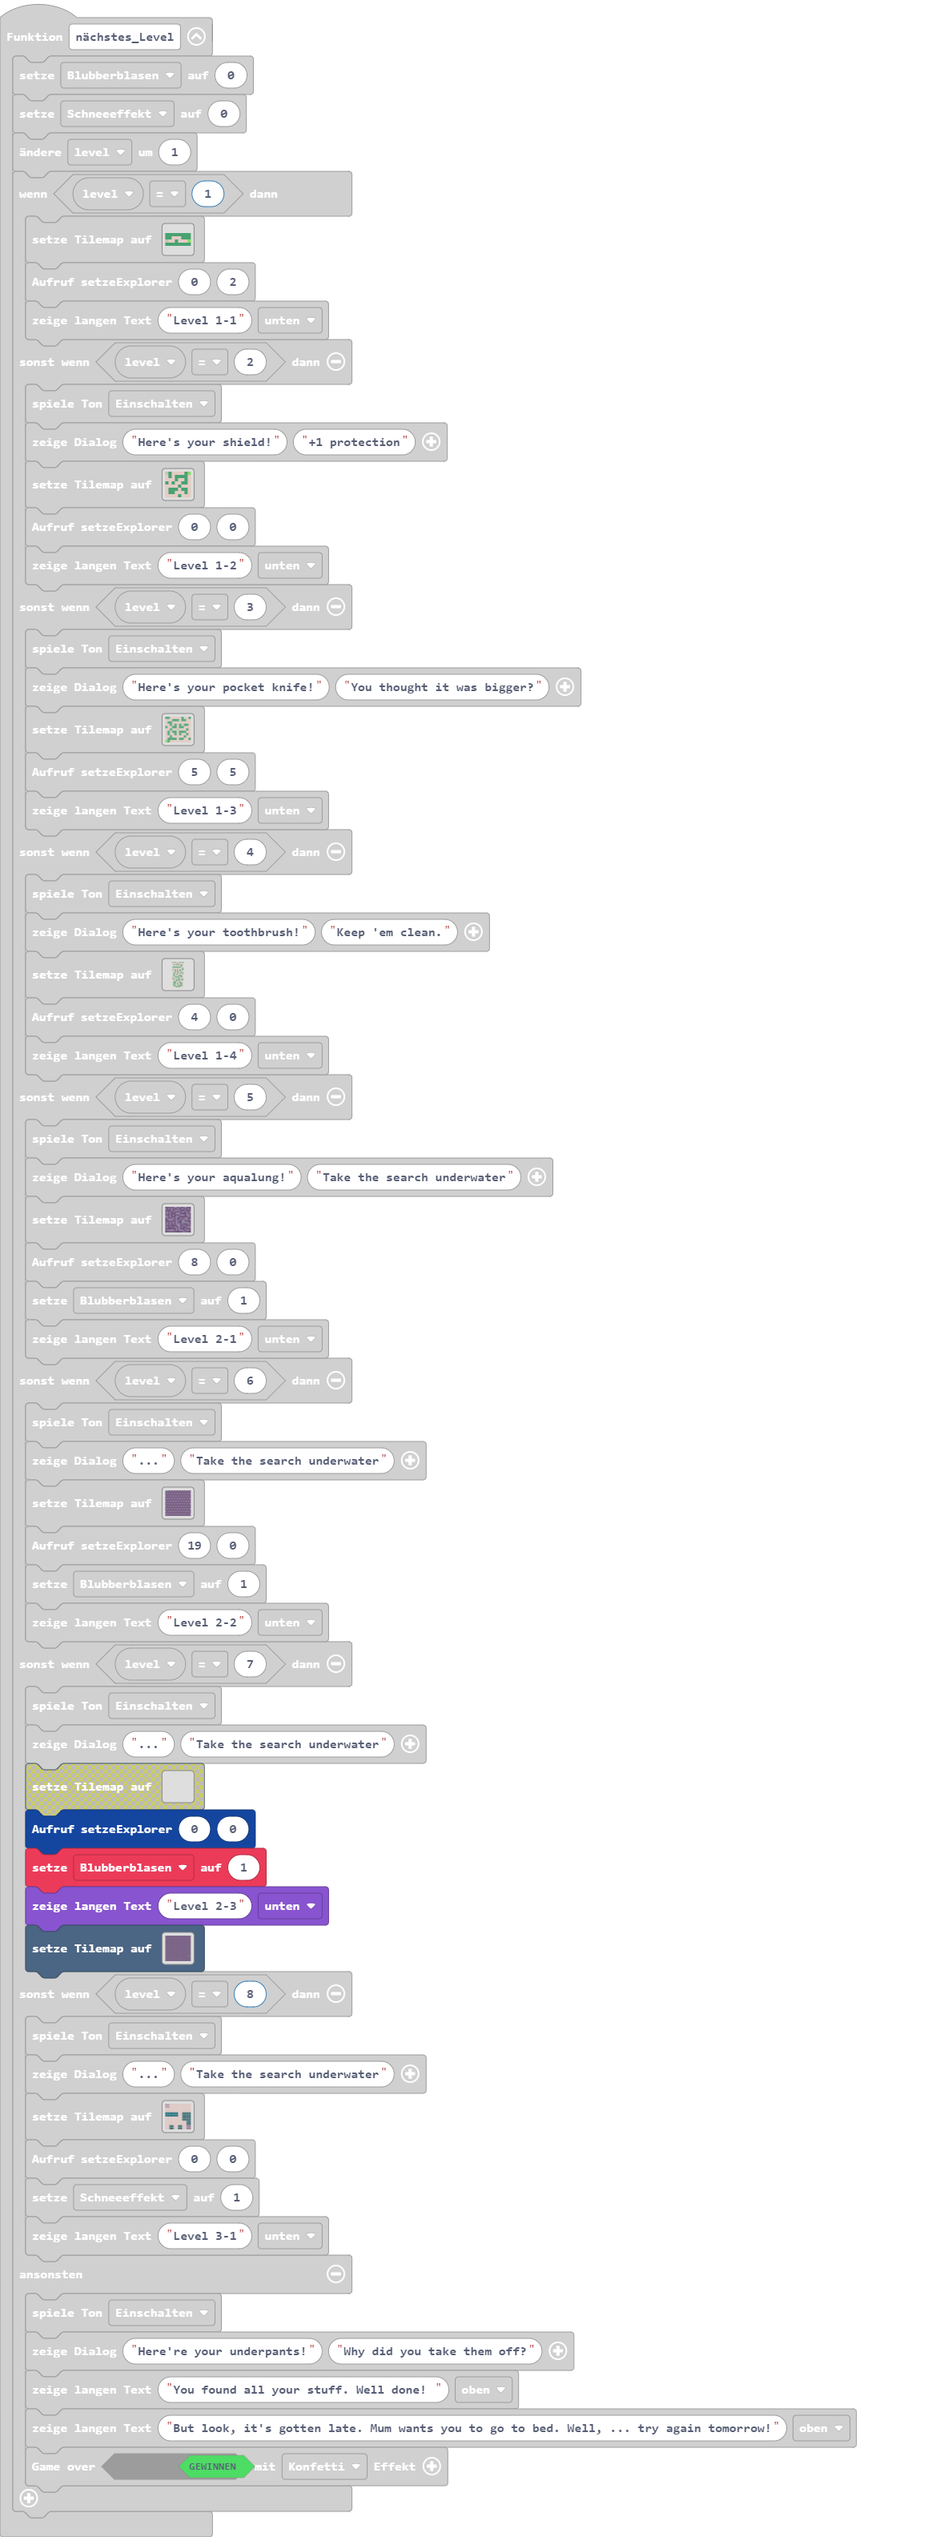
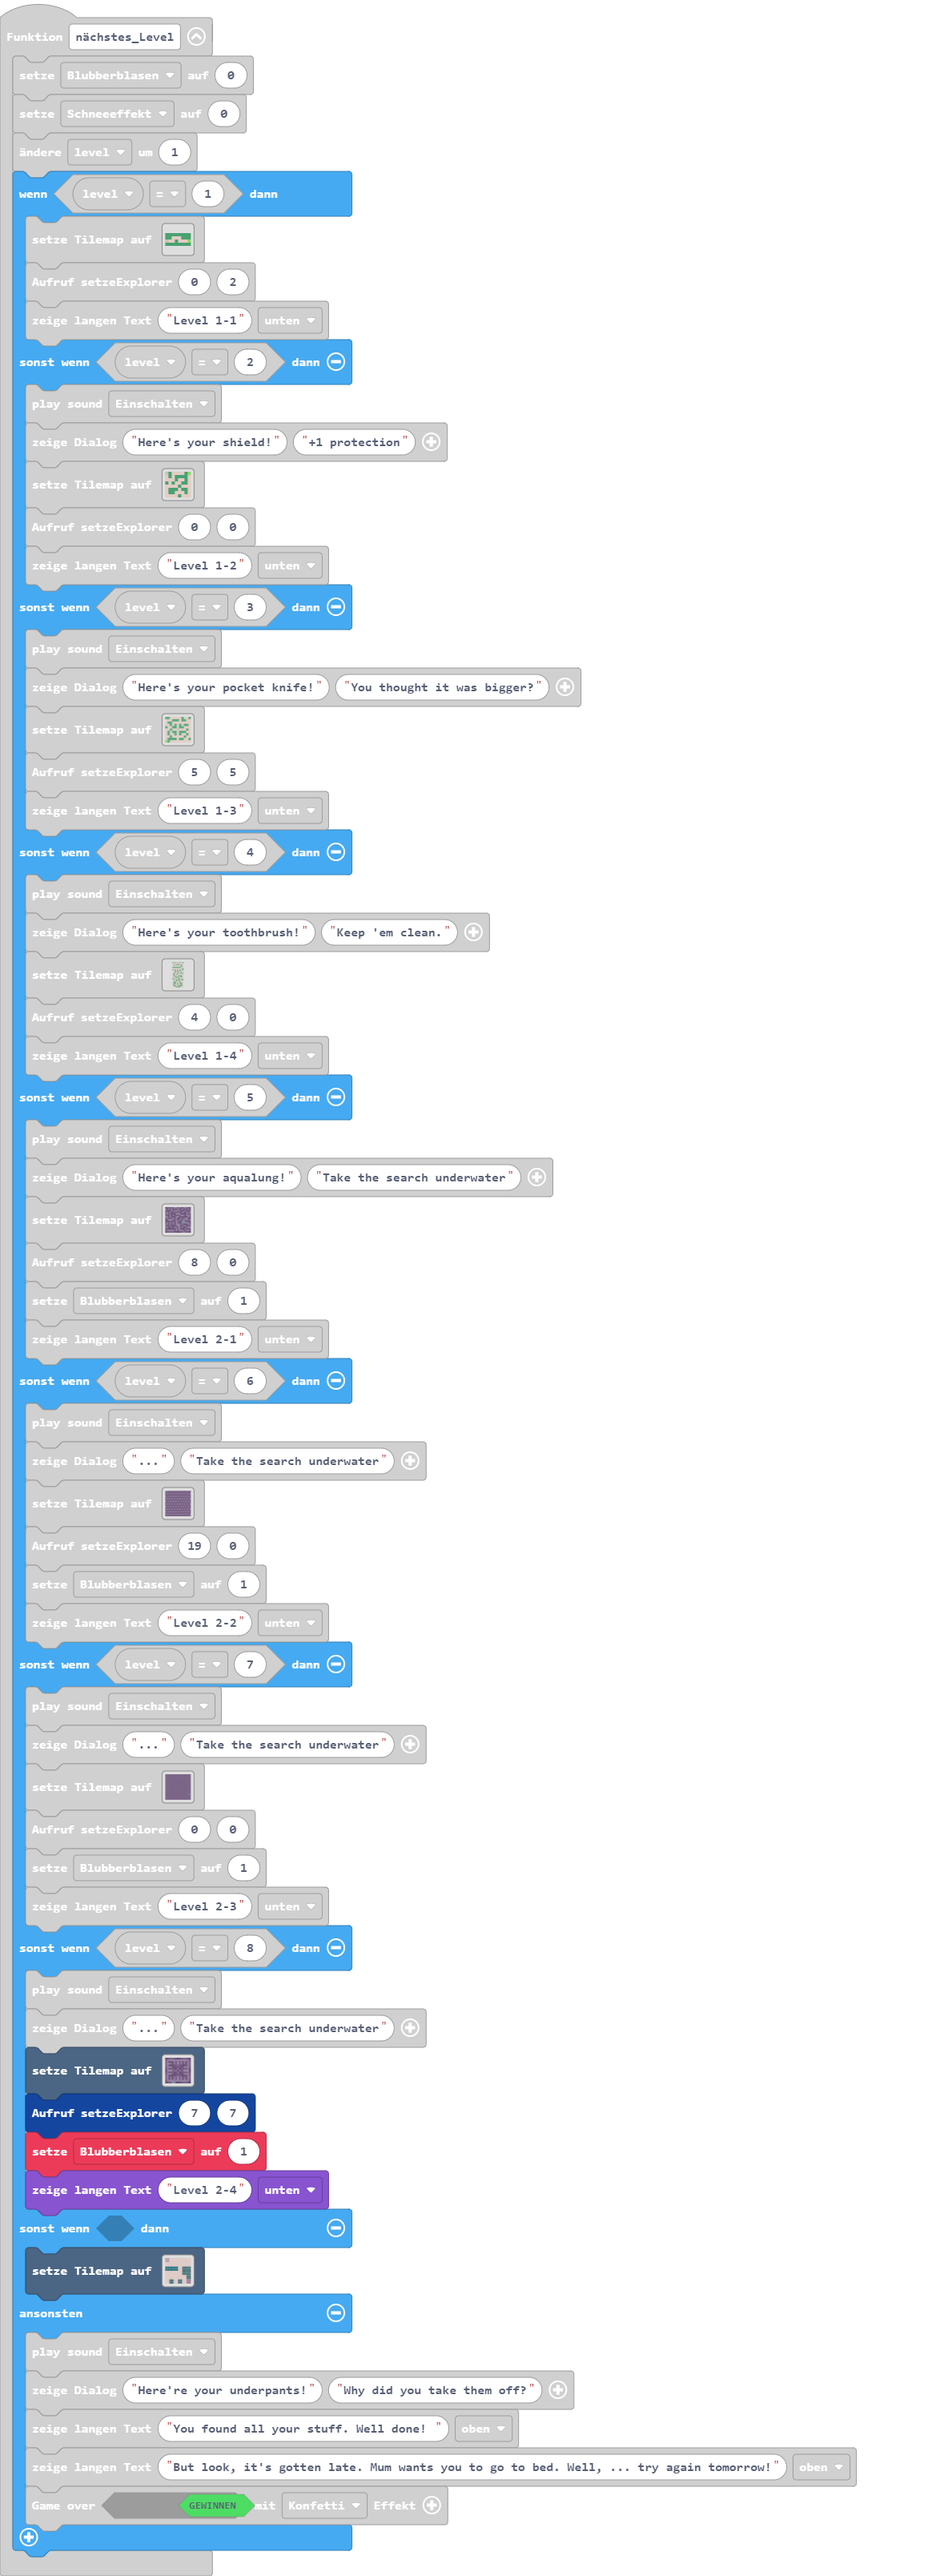
Level 2-4

Changed region(s): [[0.0, 0.0, 0.8893, 1.0]]

diff --git a/tilemap.g.ts b/tilemap.g.ts
@@ -299,6 +299,58 @@ namespace myTiles {
 . . . . . . . . . . . . . . . . 
 . . . . . . . . . . . . . . . . 
 `, [myTiles.transparency16], TileScale.Sixteen);
+            case "Level5":
+            case "Level5":return tiles.createTilemap(hex`1000100000000000000000000000000000000000000000000000000000000000000000000000000000000000000000000000000000000000000000000000000000000000000000000000000000000000000000000000000000000000000000000000000000000000000000000000000000000000000000000000000000000000000000000000000000000000000000000000000000000000000000000000000000000000000000000000000000000000000000000000000000000000000000000000000000000000000000000000000000000000000000000000000000000000000000000000000000000000000000000000000000000000000000000000000000000000`, img`
+. . . . . . . . . . . . . . . . 
+. . . . . . . . . . . . . . . . 
+. . . . . . . . . . . . . . . . 
+. . . . . . . . . . . . . . . . 
+. . . . . . . . . . . . . . . . 
+. . . . . . . . . . . . . . . . 
+. . . . . . . . . . . . . . . . 
+. . . . . . . . . . . . . . . . 
+. . . . . . . . . . . . . . . . 
+. . . . . . . . . . . . . . . . 
+. . . . . . . . . . . . . . . . 
+. . . . . . . . . . . . . . . . 
+. . . . . . . . . . . . . . . . 
+. . . . . . . . . . . . . . . . 
+. . . . . . . . . . . . . . . . 
+. . . . . . . . . . . . . . . . 
+`, [myTiles.transparency16], TileScale.Sixteen);
+            case "Level16":
[1 lines of base64/hex data omitted]
+..............................
+..............................
+..............................
+..............................
+..............................
+..............................
+..............................
+..............................
+..............................
+..............................
+..............................
+..............................
+..............................
+..............................
+..............................
+..............................
+..............................
+..............................
+..............................
+..............................
+..............................
+..............................
+..............................
+..............................
+..............................
+..............................
+..............................
+..............................
+..............................
+..............................
+`, [myTiles.transparency16,sprites.dungeon.darkGroundCenter,sprites.dungeon.darkGroundNorthWest0,sprites.dungeon.darkGroundNorthEast0,sprites.dungeon.darkGroundSouthWest0,sprites.dungeon.darkGroundSouthEast0,sprites.builtin.coral0,sprites.builtin.coral1,sprites.dungeon.collectibleBlueCrystal], TileScale.Sixteen);
         }
         return null;
     })

diff --git a/main.ts b/main.ts
@@ -90,10 +90,12 @@ function nächstes_Level () {
     } else if (level == 8) {
         music.powerUp.play()
         game.splash("...")
+        tiles.setTilemap(tilemap`Level16`)
+        setzeExplorer(7, 7)
+        Blubberblasen = 1
+        game.showLongText("Level 2-4", DialogLayout.Bottom)
+    } else if (false) {
         tiles.setTilemap(tilemap`Level31`)
-        setzeExplorer(0, 0)
-        Schneeeffekt = 1
-        game.showLongText("Level 3-1", DialogLayout.Bottom)
     } else {
         music.powerUp.play()
         game.splash("Here're your underpants!", "Why did you take them off?")
